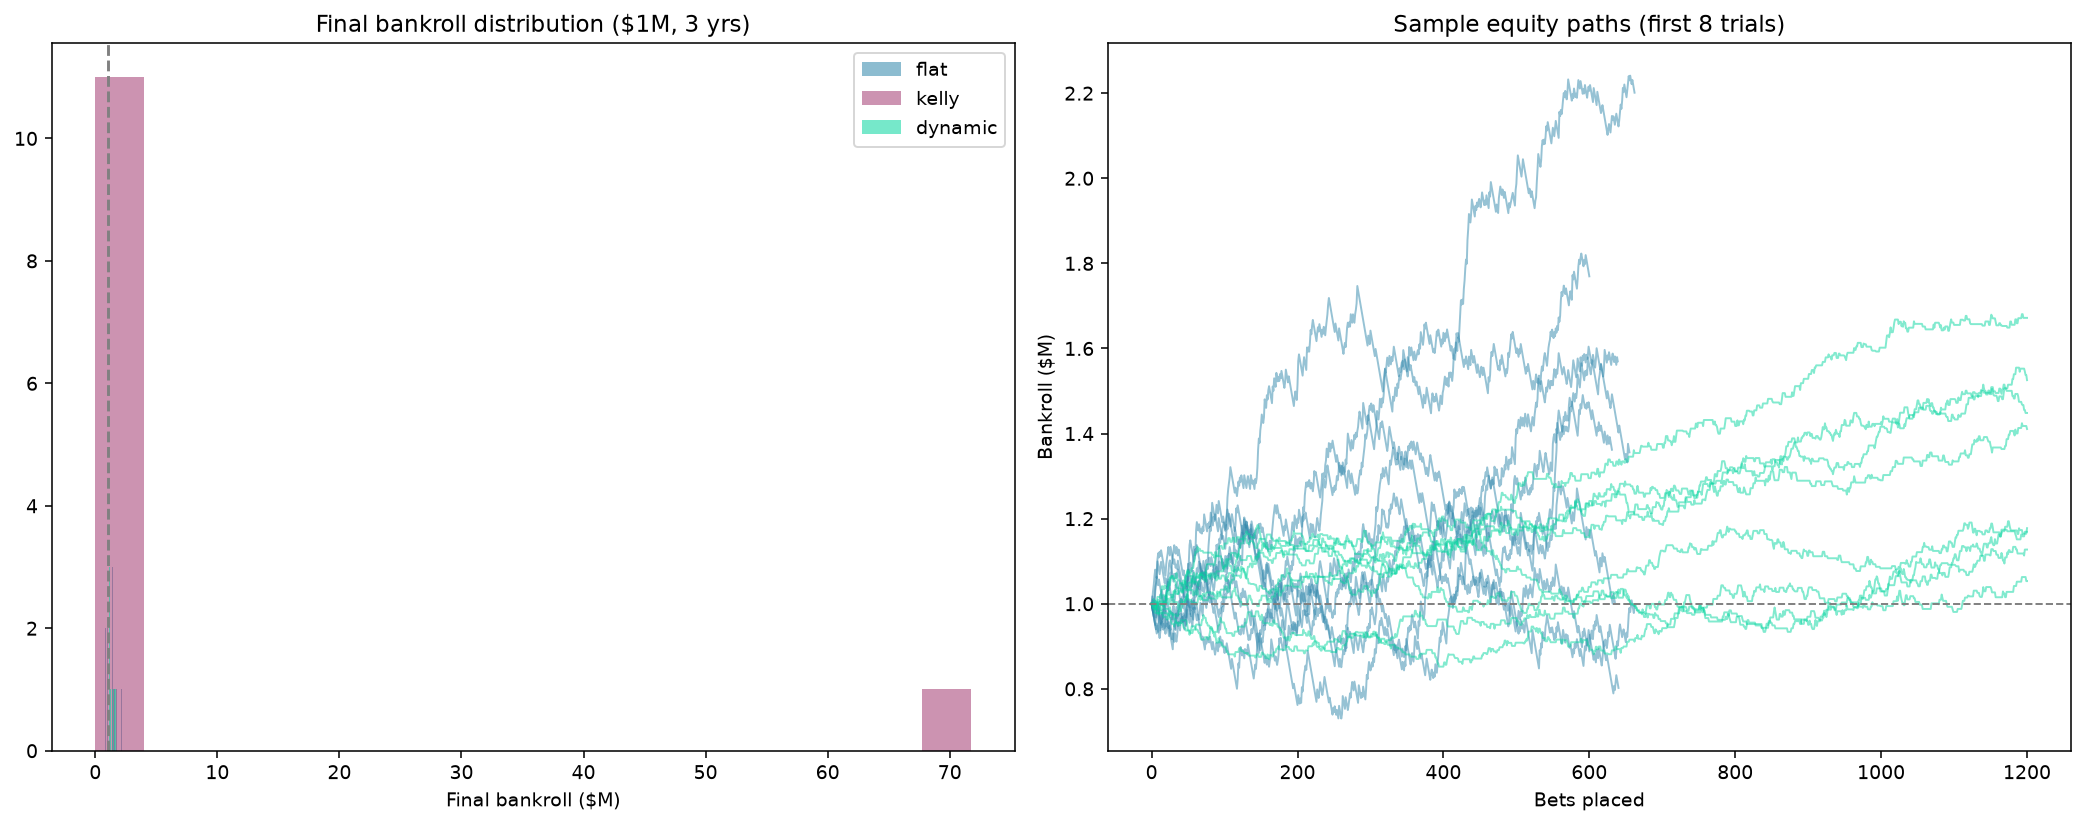
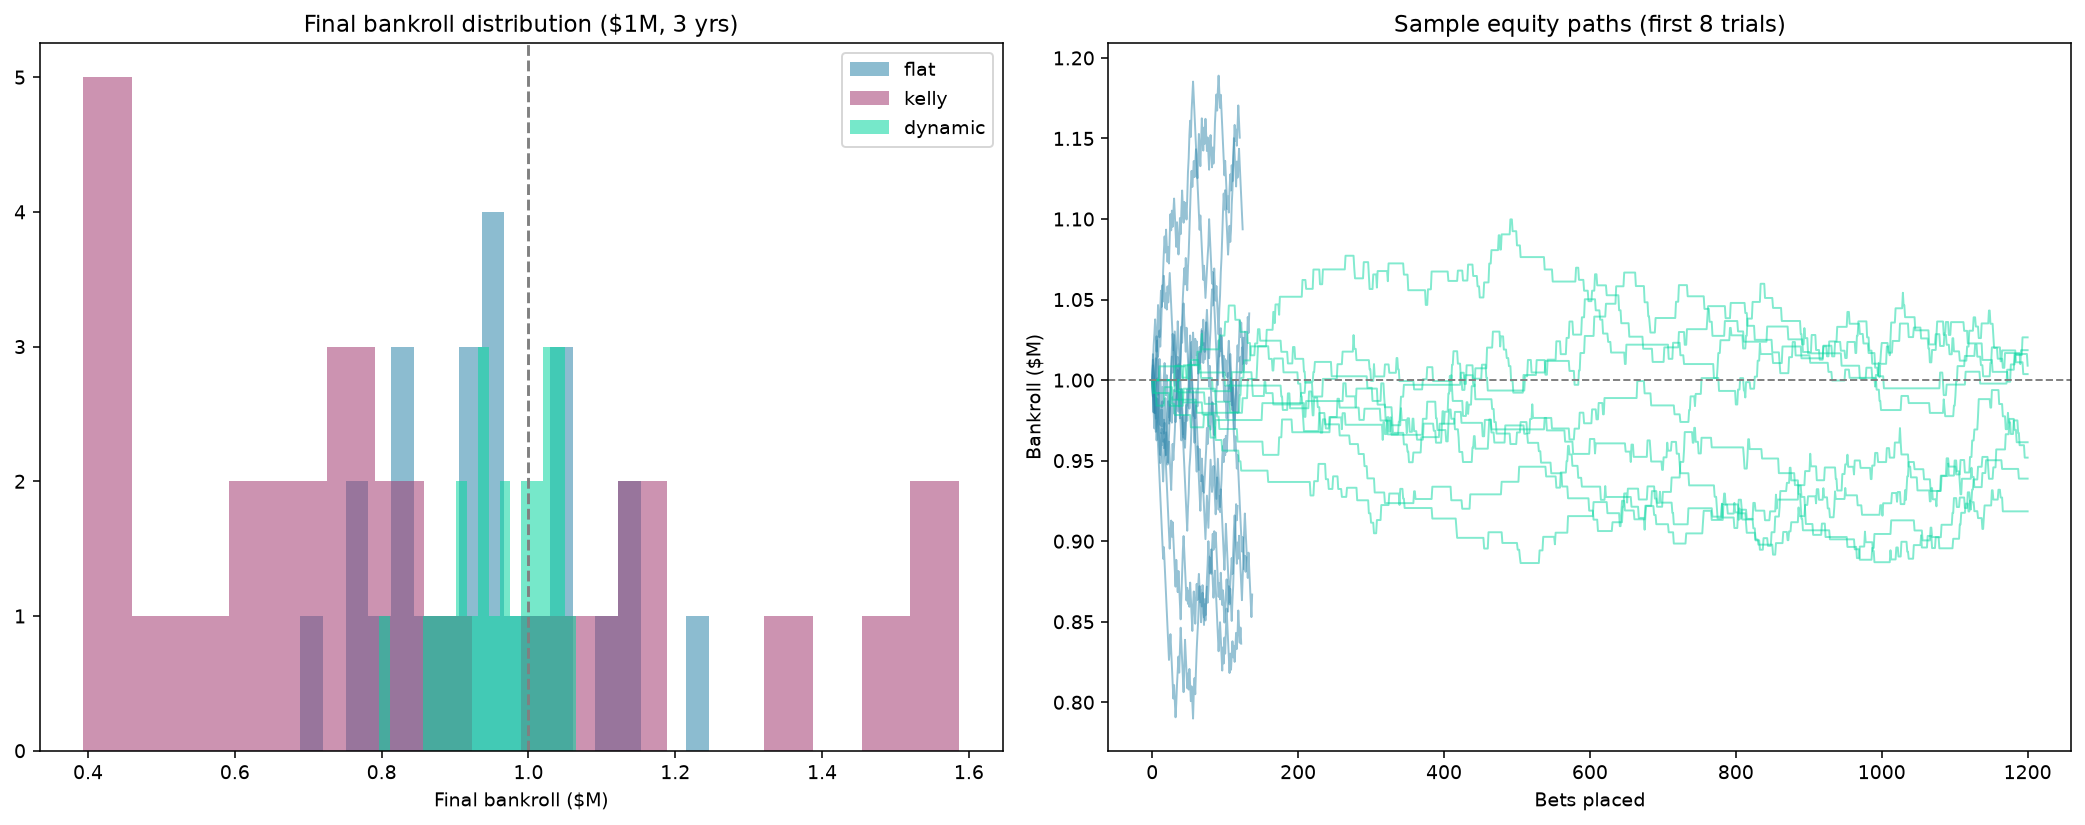
Regenerate $1M dynamic-thinking simulation with the corrected world
25 trials. Every policy now loses on average; the confidence-aware layer
loses the least (-1.1% CAGR, P(profit) 44%, tight 90% range) and beats its
own v1 baseline (28% P(profit)) and flat (32%).

diff --git a/docs/12_dynamic_thinking.md b/docs/12_dynamic_thinking.md
@@ -26,20 +26,20 @@ The layer now adapts **in proportion to how confident it is**:
   more sure than the minimum pass.
 
 ```
-    policy         mean       median   p_profit           p5          p95        worst         best  median_cagr   avg_bets
-      flat 1.365050e+06 1.361400e+06  75.000000 8.043000e+05 1.963720e+06 8.021000e+05 2.201100e+06     9.845409 643.250000
-     kelly 6.397421e+06 2.720664e+05  25.000000 7.034977e+03 3.298998e+07 6.411426e+03 7.172747e+07   -32.713312 643.250000
-   dynamic 1.293736e+06 1.213297e+06  91.666667 1.009954e+06 1.612846e+06 9.571032e+05 1.671870e+06     6.061431 388.666667
-dynamic_v1 1.275068e+06 1.247349e+06 100.000000 1.135635e+06 1.459585e+06 1.123301e+06 1.513909e+06     6.958744 443.000000
+    policy          mean       median  p_profit            p5          p95         worst         best  median_cagr  avg_bets
+      flat 943996.000000 938000.00000      32.0 759900.000000 1.148660e+06 689100.000000 1.245600e+06    -1.929308    127.88
+     kelly 842895.864698 762548.85587      32.0 417673.922202 1.540433e+06 393694.013005 1.586256e+06    -7.920019    127.88
+   dynamic 965757.353268 964813.51430      44.0 869225.253500 1.048257e+06 796876.446900 1.064738e+06    -1.084363    118.68
+dynamic_v1 967327.862412 955929.54090      28.0 904552.561380 1.035677e+06 889144.062800 1.122468e+06    -1.362484     57.92
 ```
 
 **dynamic vs its own v1 baseline (fixed base, no fusion, no confidence):** 
-median $1,213,297 vs $1,247,349, 
-P(profit) 92% vs 100%, 
-90% range [$1,009,954 .. $1,612,846] vs 
-[$1,135,635 .. $1,459,585].  Final model-vs-market weight 
-0.48, base refits/trial 13.5 (confidence-gated 
-1.5), final rolling confidence 0.27.
+median $964,814 vs $955,930, 
+P(profit) 44% vs 28%, 
+90% range [$869,225 .. $1,048,257] vs 
+[$904,553 .. $1,035,677].  Final model-vs-market weight 
+0.50, base refits/trial 14.5 (confidence-gated 
+2.5), final rolling confidence 0.30.
 
 **Honest reading:** the dynamic layer adapts its reasoning (final market
 weight, uncertainty shrink, drawdown risk, survival switch) instead of
